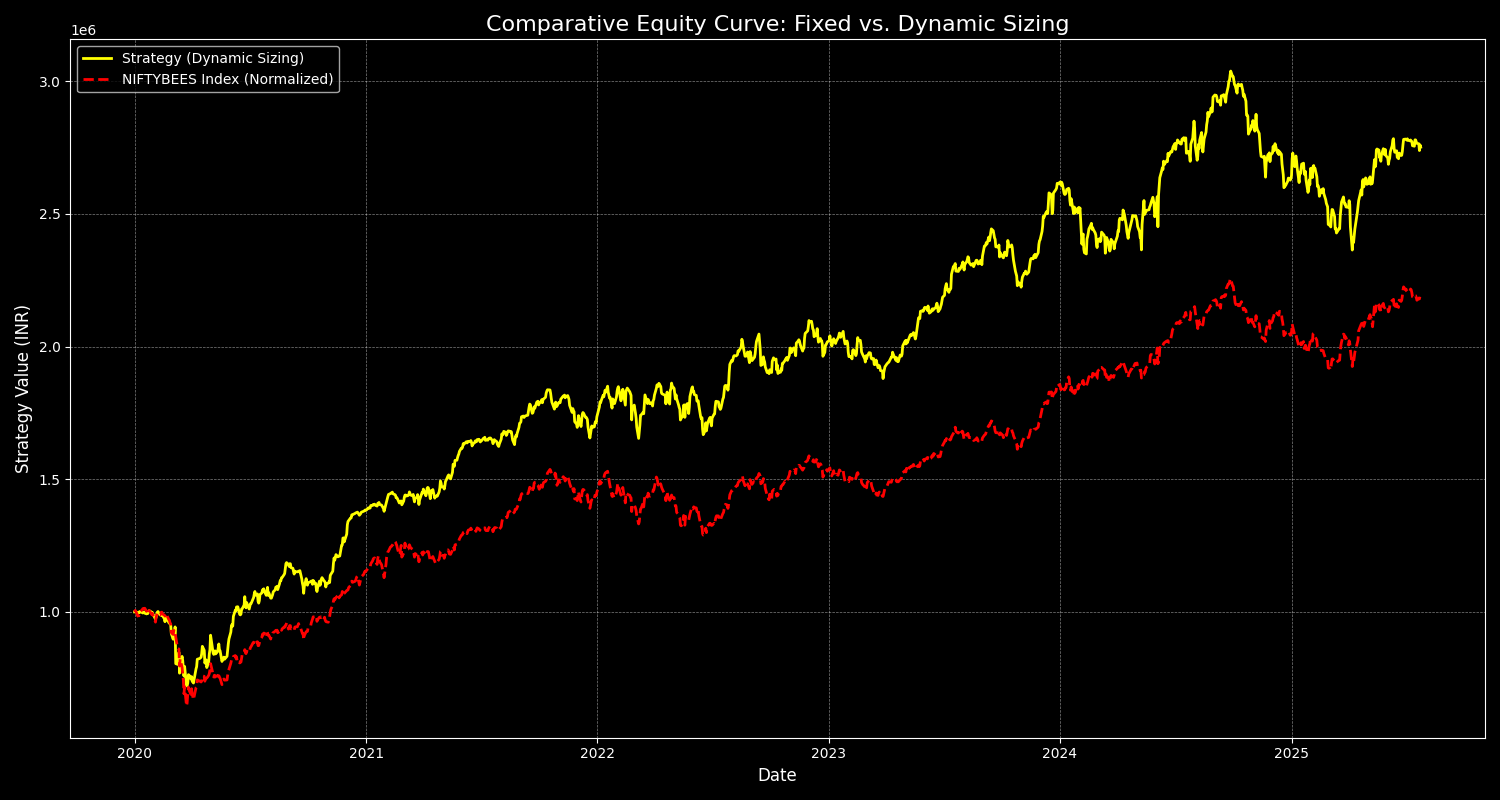
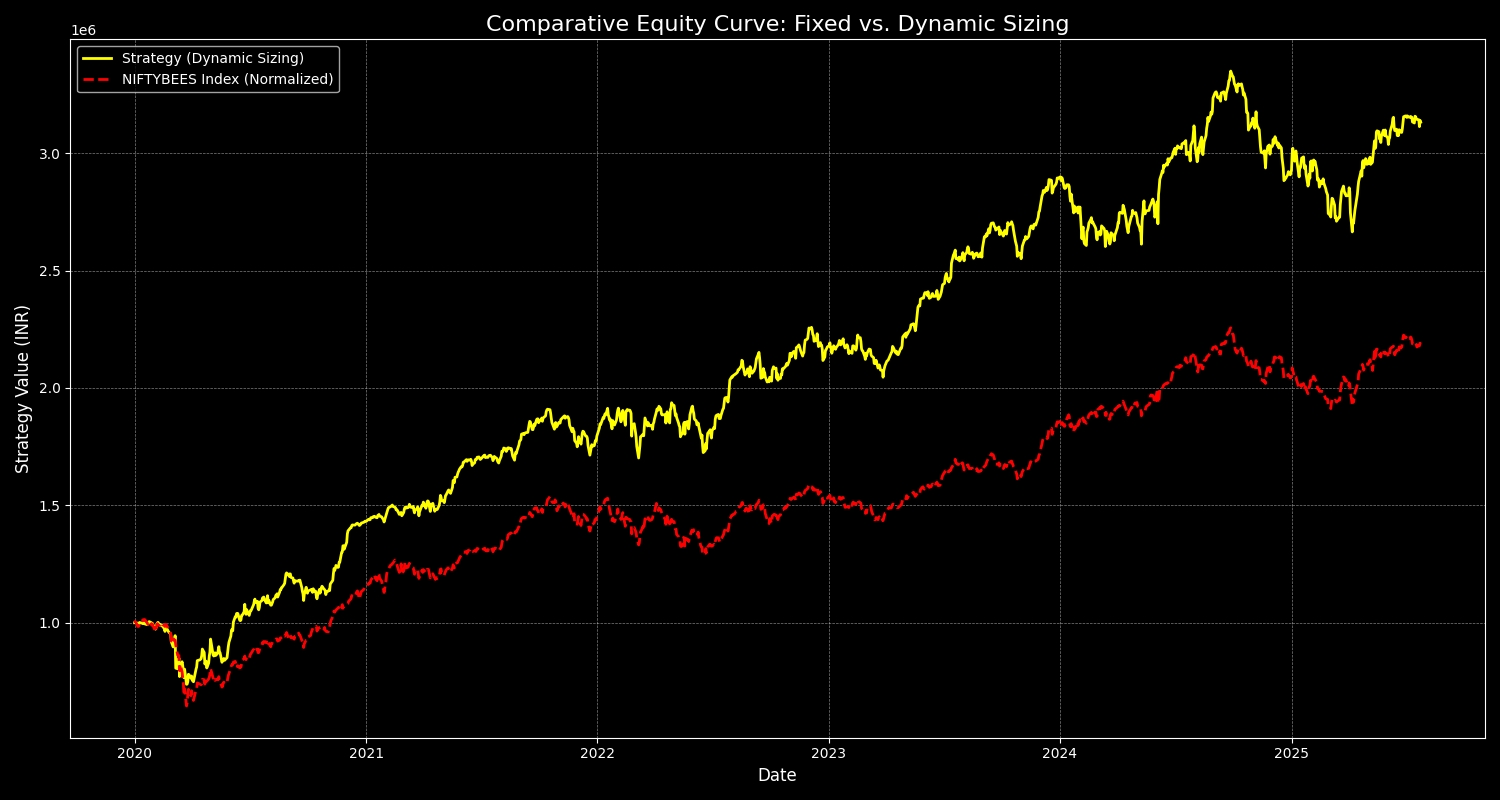
added divdend support

diff --git a/nifty_shop_backtest_v4.py b/nifty_shop_backtest_v4.py
@@ -3,6 +3,8 @@ import pandas as pd
 import numpy as np
 from datetime import datetime, timedelta
 import matplotlib.pyplot as plt
+from queue import Queue
+from threading import Thread
 
 
 def xirr(dates, values, guess=0.1):
@@ -66,6 +68,9 @@ ENABLE_SIP = False
 SIP_AMOUNT = 10000.00
 SIP_DAY = 1
 
+# -- Dividend Settings --
+REINVEST_DIVIDENDS = True
+
 # -- Control Which Backtests to Run --
 RUN_FIXED_SIZING_TEST = False
 RUN_DYNAMIC_SIZING_TEST = True
@@ -118,6 +123,45 @@ sma_20 = stock_data.rolling(window=20).mean()
 print("Data fetching complete.")
 
 
+# --- Optimized Dividend Data Fetching ---
+def fetch_single_dividend(ticker, q):
+    """Fetches dividend data for a single ticker and puts it in a queue."""
+    try:
+        stock_obj = yf.Ticker(ticker)
+        dividends = stock_obj.dividends
+        if not dividends.empty:
+            dividends_in_range = dividends.loc[START_DATE:END_DATE]
+            if not dividends_in_range.empty:
+                dividends_in_range.index = dividends_in_range.index.tz_localize(None)
+                q.put({ticker: dividends_in_range})
+    except Exception:
+        pass  # Ignore tickers that fail
+
+
+def get_all_dividends_threaded(tickers):
+    """Fetches dividend data for a list of tickers using multiple threads."""
+    print("Fetching dividend data (threaded)...")
+    q = Queue()
+    threads = []
+    for ticker in tickers:
+        thread = Thread(target=fetch_single_dividend, args=(ticker, q))
+        thread.start()
+        threads.append(thread)
+
+    for thread in threads:
+        thread.join()  # Wait for all threads to finish
+
+    all_dividends = {}
+    while not q.empty():
+        all_dividends.update(q.get())
+
+    print("Dividend data fetching complete.")
+    return all_dividends
+
+
+all_dividends = get_all_dividends_threaded(all_tickers_to_fetch)
+
+
 # --- 2. BACKTESTING FUNCTION (MODULARIZED) ---
 def run_backtest(sizing_method):
     print(f"\n{'='*40}\n RUNNING BACKTEST (SIZING METHOD: {sizing_method}) \n{'='*40}")
@@ -126,6 +170,7 @@ def run_backtest(sizing_method):
     transactions_list = []
     closed_trades_log = []
     cash_flows = []  # Initialize empty cash flows for XIRR
+    non_reinvested_dividends = 0  # Track dividends separately if not reinvested
 
     # Find the first actual trading day to start the backtest
     first_trading_day = stock_data.loc[
@@ -164,6 +209,33 @@ def run_backtest(sizing_method):
                         "Reason": "Monthly SIP",
                     }
                 )
+
+        # --- Dividend Income Logic ---
+        # Check for dividends on the current date for all held stocks
+        for ticker, lots in portfolio["holdings"].items():
+            if ticker in all_dividends and current_date in all_dividends[ticker].index:
+                dividend_per_share = all_dividends[ticker].loc[current_date]
+                total_quantity = sum(lot["quantity"] for lot in lots)
+
+                if total_quantity > 0 and dividend_per_share > 0:
+                    total_dividend_received = dividend_per_share * total_quantity
+                    if REINVEST_DIVIDENDS:
+                        portfolio["cash"] += total_dividend_received
+                    else:
+                        non_reinvested_dividends += total_dividend_received
+
+                    transactions_list.append(
+                        {
+                            "Date": current_date,
+                            "Ticker": ticker,
+                            "Type": "DIVIDEND",
+                            "Price": dividend_per_share,
+                            "Quantity": total_quantity,
+                            "PnL_%": 0,  # Not applicable for dividends
+                            "Capital": portfolio["cash"],
+                            "Reason": f"Dividend Received (₹{dividend_per_share:.2f}/share)",
+                        }
+                    )
 
         current_holdings_value = sum(
             stock_data.loc[current_date, ticker] * lot["quantity"]
@@ -432,6 +504,7 @@ def run_backtest(sizing_method):
 
     # --- Reporting for this run ---
     pf_value_df = pd.DataFrame(portfolio["value_history"]).set_index("Date")
+    transactions_log_df = pd.DataFrame(transactions_list)  # For unified reporting
 
     print("\n--- Strategy Assumptions ---")
     if sizing_method == "FIXED":
@@ -453,6 +526,7 @@ def run_backtest(sizing_method):
         print(f"SIP Enabled: Yes (₹{SIP_AMOUNT:,.2f} on day {SIP_DAY} of each month)")
     else:
         print("SIP Enabled: No")
+    print(f"Reinvest Dividends: {'Yes' if REINVEST_DIVIDENDS else 'No'}")
 
     if (
         not pf_value_df.empty
@@ -460,6 +534,8 @@ def run_backtest(sizing_method):
     ):
         years = (pf_value_df.index[-1] - pf_value_df.index[0]).days / 365.25
         final_portfolio_value = pf_value_df["Value"].iloc[-1]
+        if not REINVEST_DIVIDENDS:
+            final_portfolio_value += non_reinvested_dividends
 
         # <<< FIX IMPLEMENTED HERE >>>
         # Calculate daily returns for the strategy
@@ -574,6 +650,22 @@ def run_backtest(sizing_method):
         print(
             f"Final Portfolio Value: ₹{final_portfolio_value:,.2f} (Total Return: {((final_portfolio_value - INITIAL_CAPITAL) / INITIAL_CAPITAL) * 100:.2f}%)"
         )
+        total_dividend_income = 0
+        if not transactions_log_df.empty:
+            dividend_log = transactions_log_df[
+                transactions_log_df["Type"] == "DIVIDEND"
+            ].copy()
+            if not dividend_log.empty:
+                dividend_log["TotalDividend"] = (
+                    dividend_log["Price"] * dividend_log["Quantity"]
+                )
+                total_dividend_income = dividend_log["TotalDividend"].sum()
+                # Save the detailed dividend log
+                dividend_log_filename = f"dividend_log_{sizing_method}.csv"
+                dividend_log.to_csv(dividend_log_filename, index=False)
+                print(f"Dividend log saved to {dividend_log_filename}")
+
+        print(f"Total Dividend Income: ₹{total_dividend_income:,.2f}")
         print(
             f"Max Capital Deployed: ₹{pf_value_df['Deployed Capital'].max():,.2f} ({ (pf_value_df['Deployed Capital'].max() / pf_value_df['Value'].max()) * 100:.2f}% of peak portfolio value)"
         )
@@ -597,7 +689,6 @@ def run_backtest(sizing_method):
         print(f"Avg. Averages per Trade: {avg_averages:.2f}")
         print(f"Max Averages for a Single Trade: {int(max_averages)}")
 
-    transactions_log_df = pd.DataFrame(transactions_list)
     if not transactions_log_df.empty:
         # Save the detailed transaction log
         log_filename = "trade_log.csv"

diff --git a/README.md b/README.md
@@ -127,15 +127,17 @@ The backtest was run with the following configuration:
 - **Max New Buys Per Day:** 1
 - **Max Averaging:** Unlimited
 - **SIP Enabled:** No
+- **Reinvest Dividends:** Yes
 
 The key results for this configuration are:
 
-- **Total Return:** 175.14%
-- **Strategy CAGR:** 19.96%
-- **Strategy XIRR:** 19.44% (vs. NIFTYBEES CAGR of 15.04%)
-- **Alpha (Excess Return):** 4.92%
-- **Maximum Drawdown:** -28.23%
-- **Sharpe Ratio:** 0.64
+- **Total Return:** 213.20%
+- **Total Dividend Income:** ₹172,761.59
+- **Strategy CAGR:** 22.79%
+- **Strategy XIRR:** 22.63% (vs. NIFTYBEES CAGR of 15.04%)
+- **Alpha (Excess Return):** 7.75%
+- **Maximum Drawdown:** -26.58%
+- **Sharpe Ratio:** 0.79
 
 This demonstrates that the strategy outperformed the benchmark during the tested period. For a full detailed breakdown, please run the backtest script.
 
